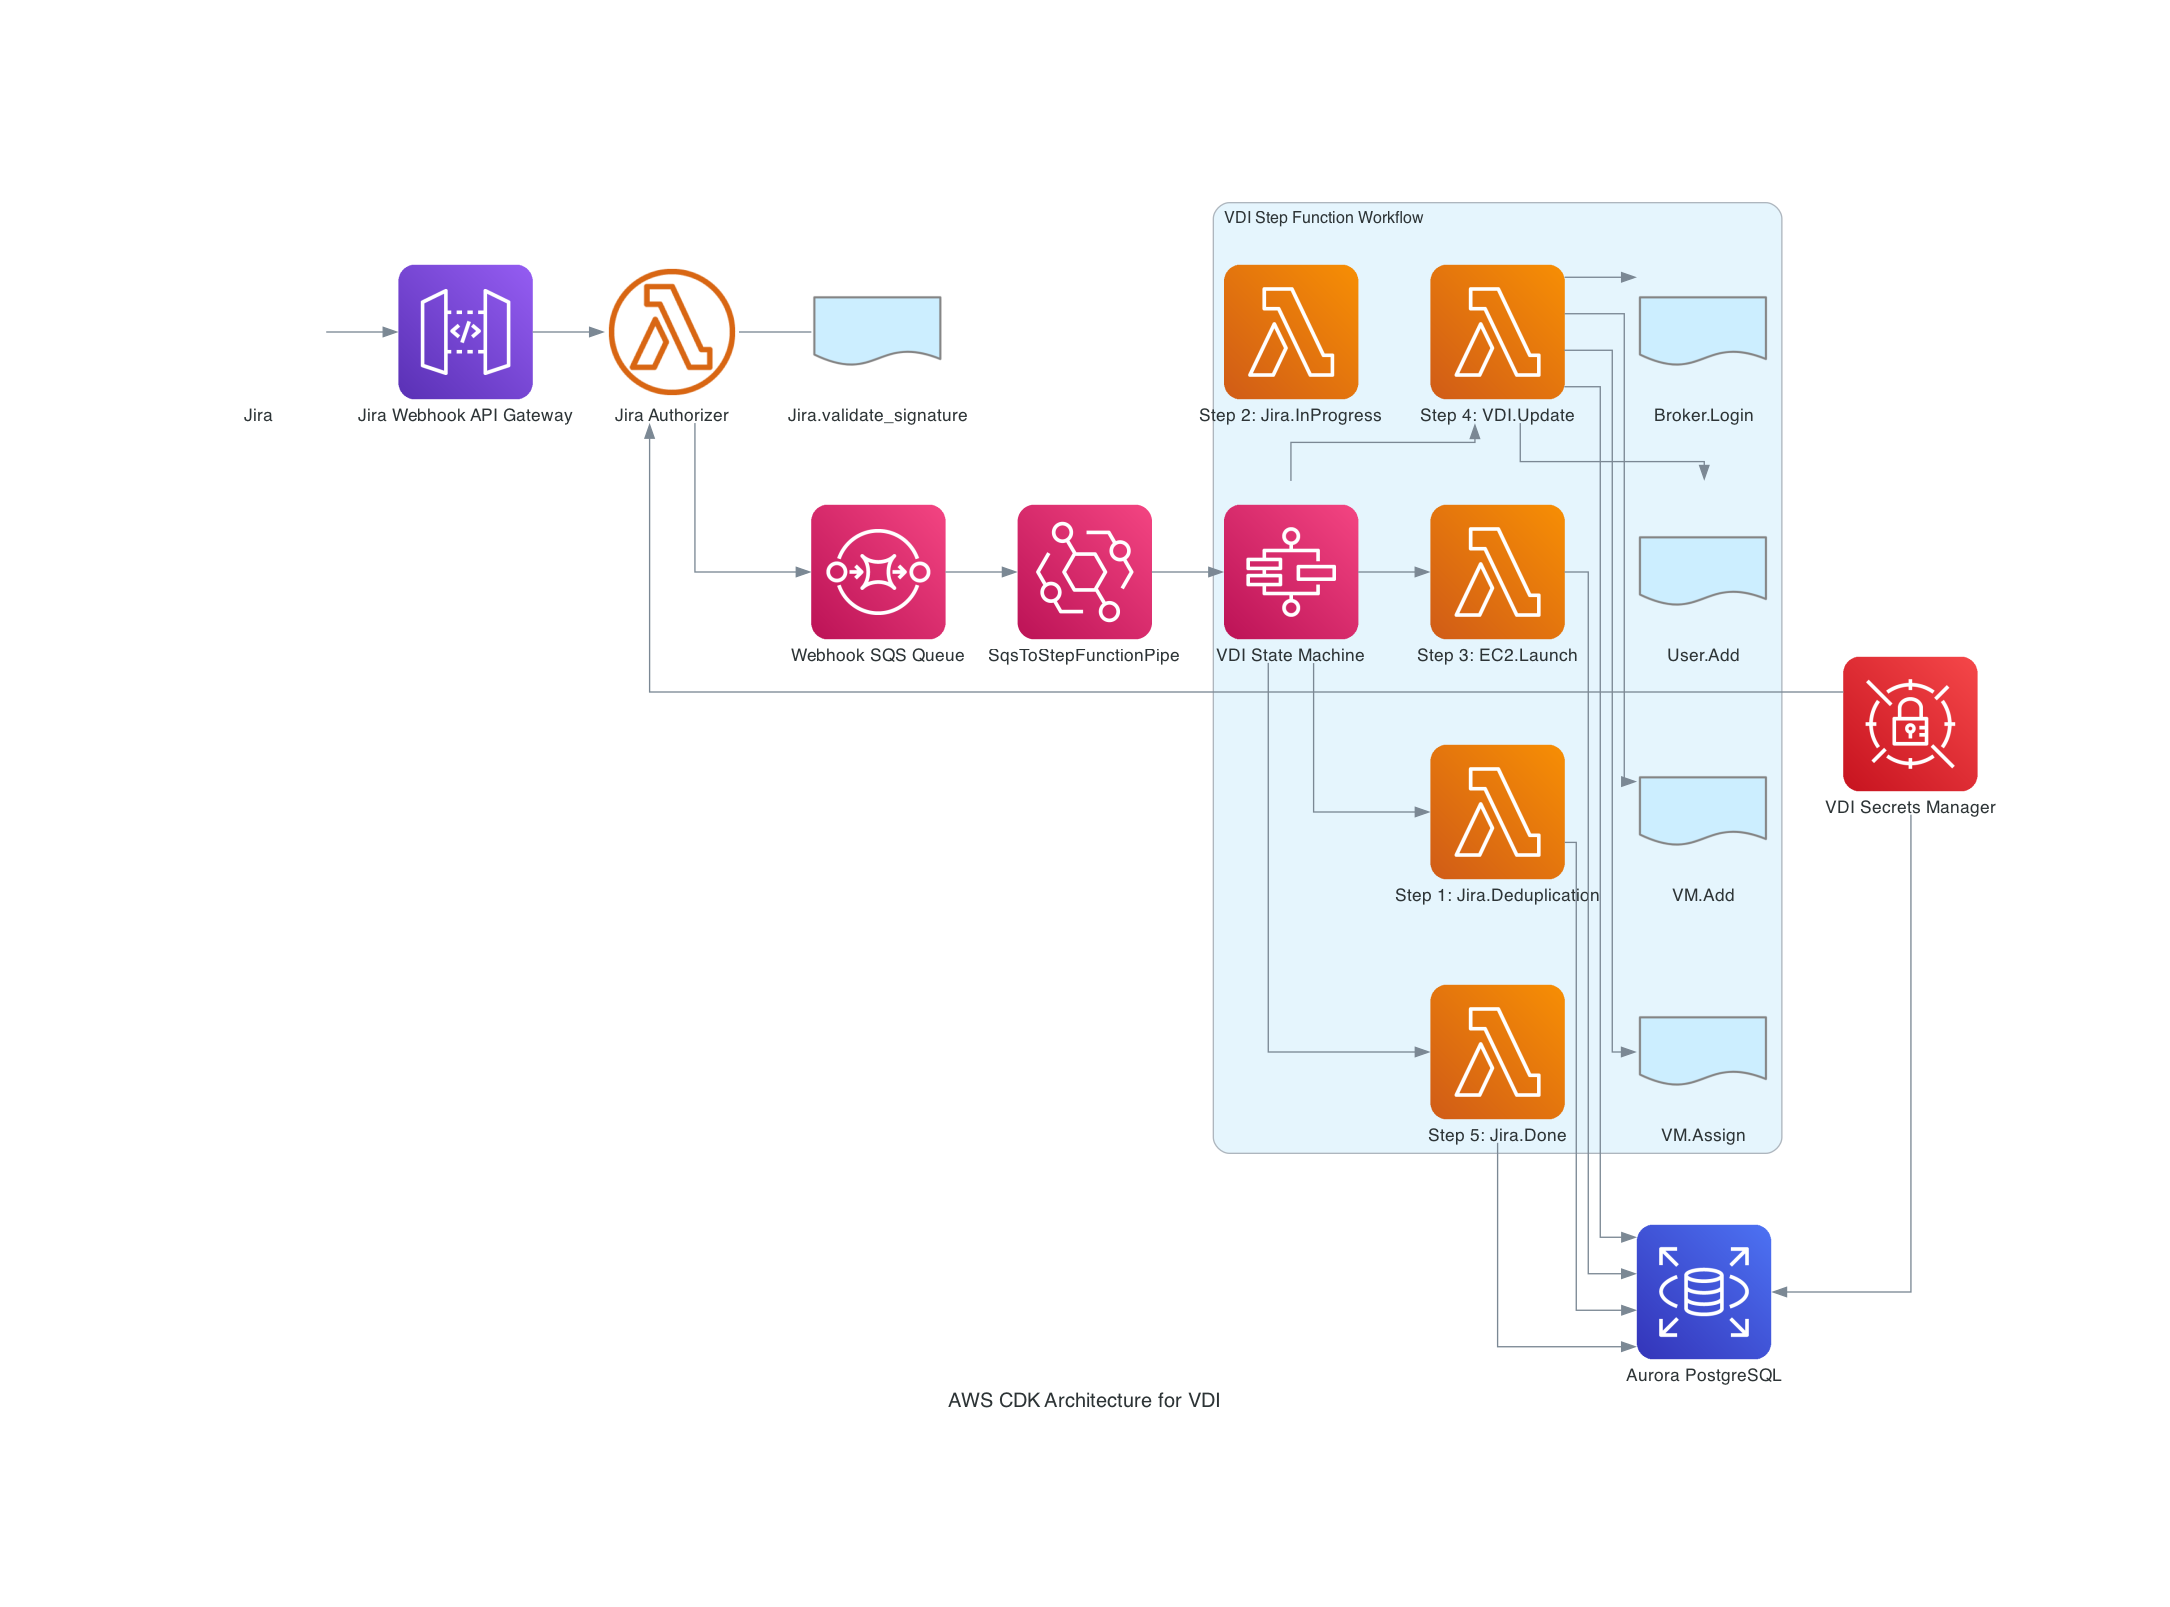
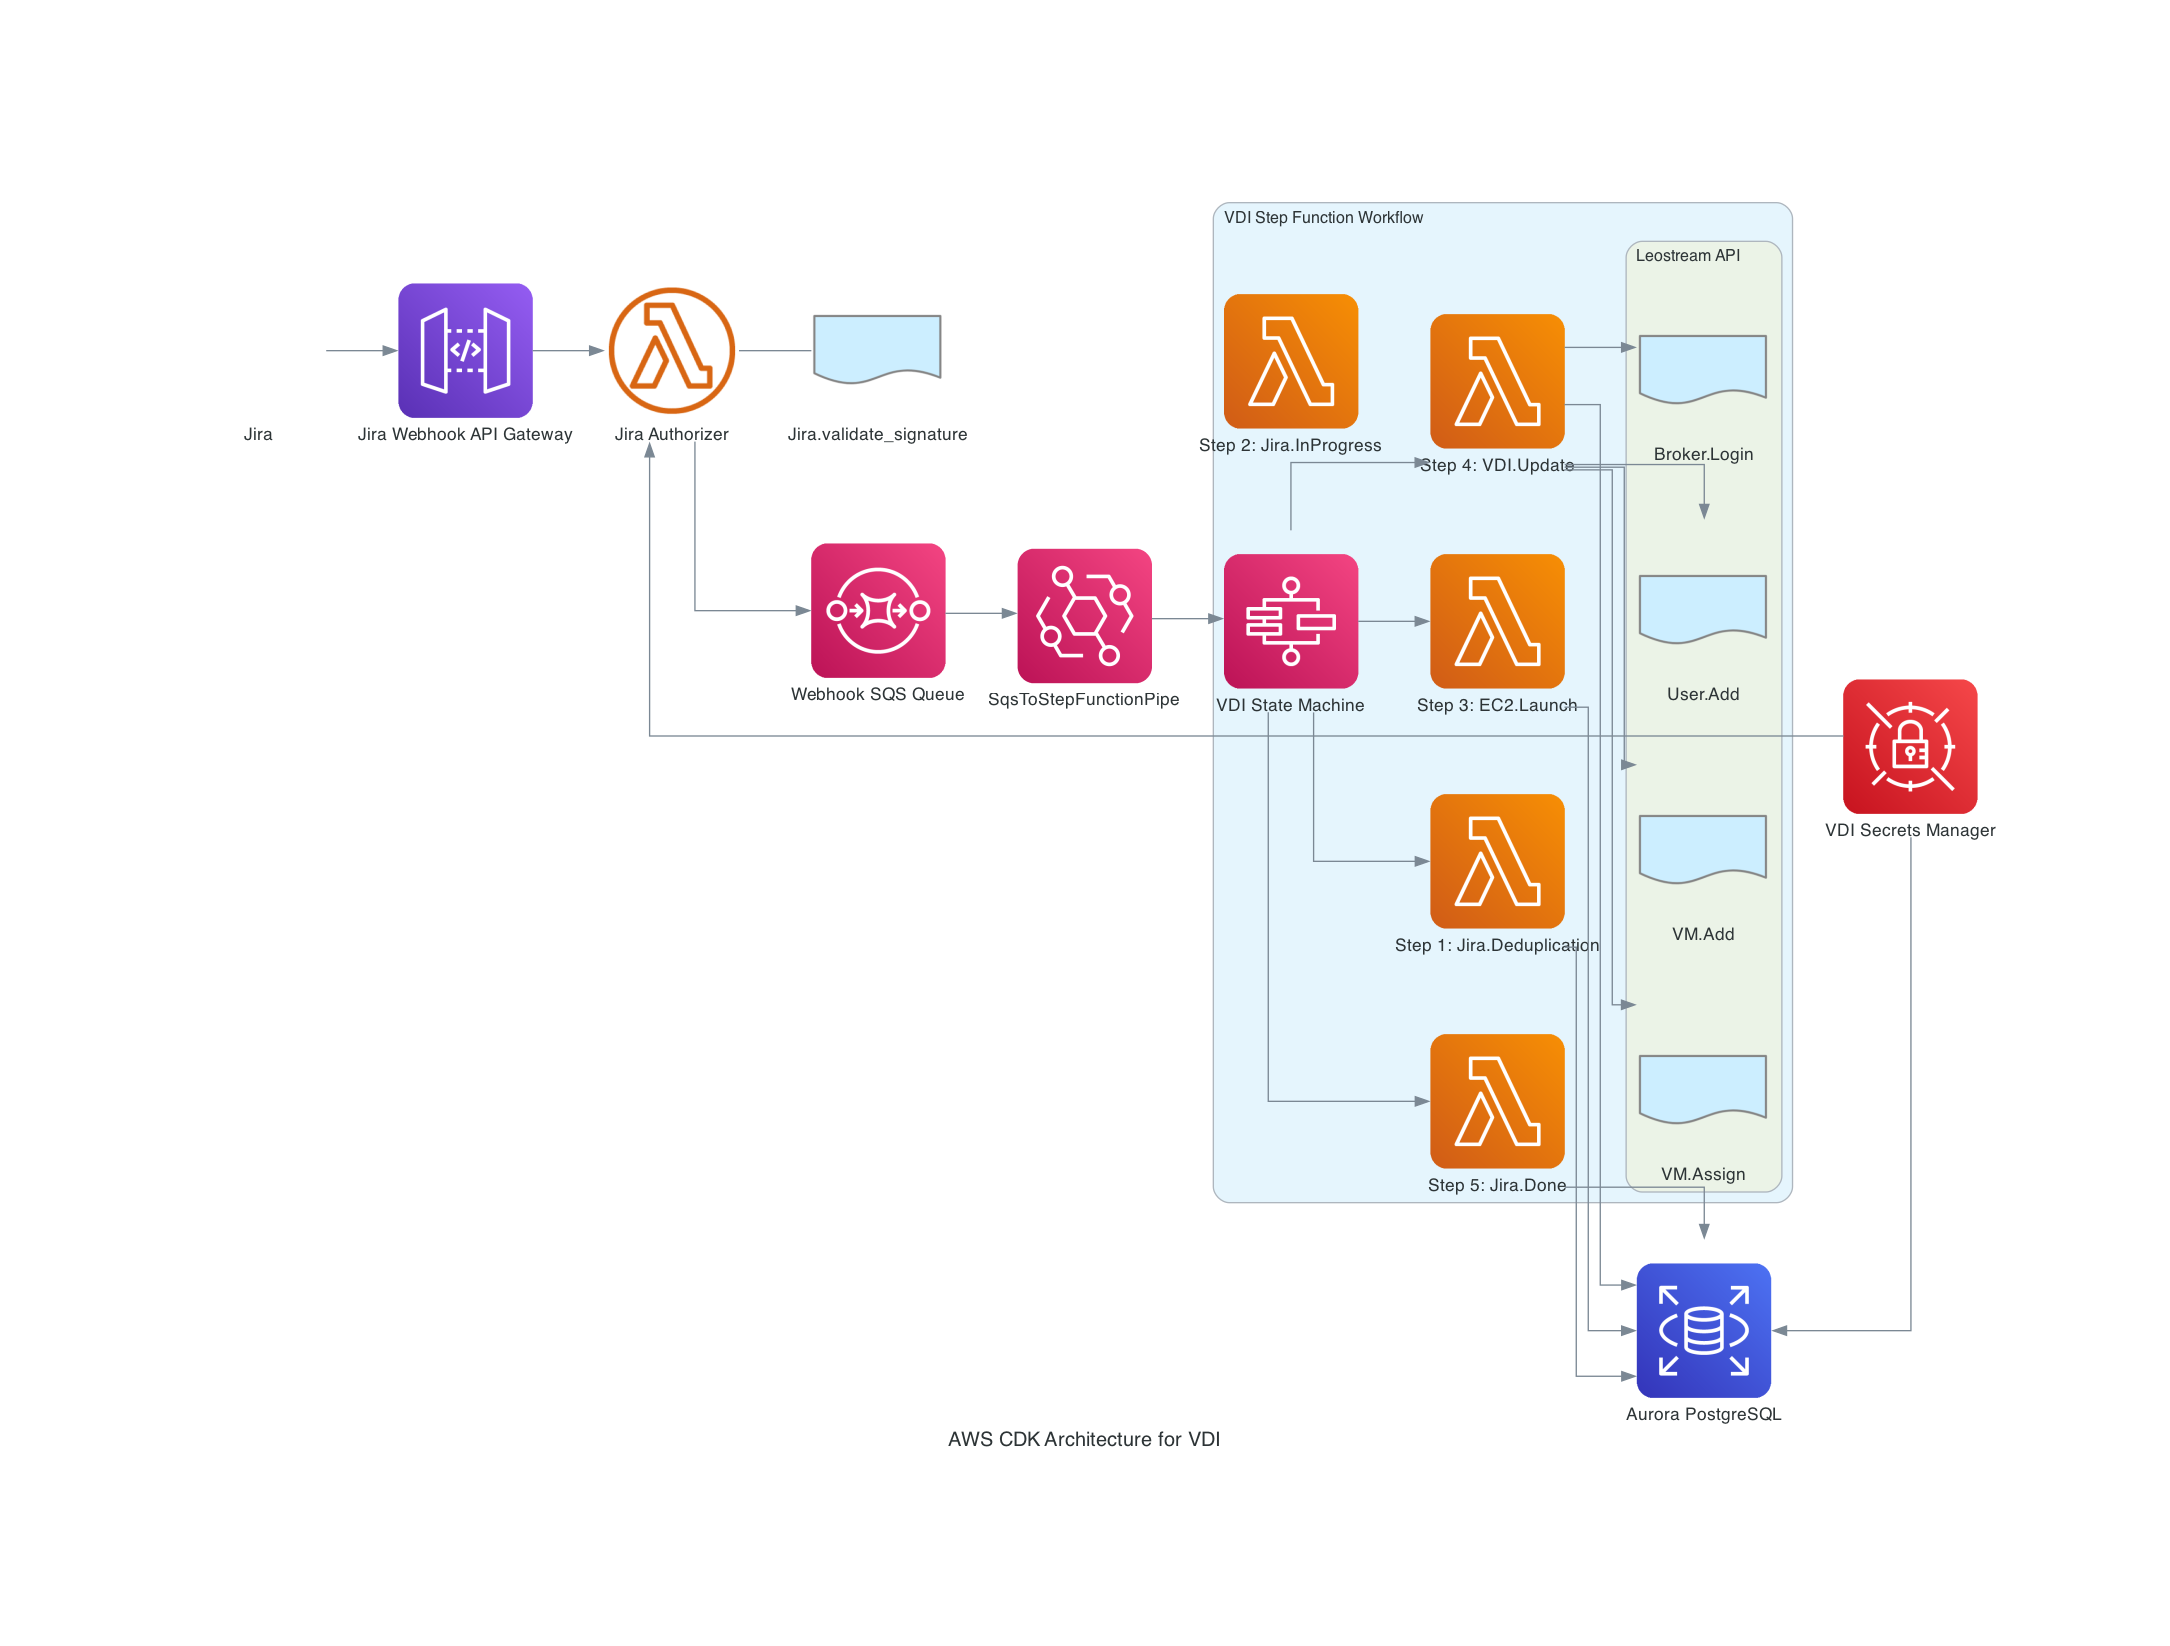
Update readme with HLD

diff --git a/architecture.py b/architecture.py
@@ -27,10 +27,14 @@ with (Diagram("AWS CDK Architecture for VDI", show=False, direction="LR")):
         jira_in_progress = Lambda("Step 2: Jira.InProgress")
         launch_ec2_lambda = Lambda("Step 3: EC2.Launch")
         vdi_lambda = Lambda("Step 4: VDI.Update")
-        broker_login = Document("Broker.Login")
-        user_add_api = Document("User.Add")
-        vm_add_api = Document("VM.Add")
-        vm_assign_api = Document("VM.Assign")
+
+        with Cluster("Leostream API"):
+
+            broker_login = Document("Broker.Login")
+            user_add_api = Document("User.Add")
+            vm_add_api = Document("VM.Add")
+            vm_assign_api = Document("VM.Assign")
+
         final_lambda = Lambda("Step 5: Jira.Done")
         step_function = StepFunctions("VDI State Machine")
 

diff --git a/README.md b/README.md
@@ -1,3 +1,90 @@
+# VDI Studios
+![VDI](/aws_cdk_architecture_for_vdi.png)
+
+## HLD
+The project uses AWS CDK and python to create the [Stack](cdk/disney_stack.py) for this workflow.
+1. API Gateway
+2. Lambda function to authorize the webhook (don't believe a Lambda Authorizer fits with how Jira webhook sends a signed signature).  This function will integrate with SQS
+3. AWS Step functions will work the SQS queue.  Rough POC
+   1. Prep the data from SQS 
+   2. Jira can retry requests using header field X-Atlassian-Webhook-Identifier
+   3. Store necessary data in Aurora RDS (Postgres)
+   4. Integrate with Jira to update status and comments
+   5. Integrate with Secrets Manager 
+   6. Integrate with Leostream specifics, may be good to expand the VDI.Update function into it's own state machine to orchestrate all the Leostream api calls
+   7. In Step 2, assuming that we need to run an ec2 instance to add Leostream.  As part of that the python script will send the run instance with a user data and the provide ansible scripts:
+[create ec2](lambda/step_function/create_ec2.py)
+![Step Function Main](/stepfunctions_graph.png)
+
+## Using the REST API: Registration
+
+Can register jira webhook either the jira admin or via jira rest api during cdk deploy
+
+POST /rest/api/3/webhook
+To register webhooks through the REST API, make a POST request to https://your-domain.atlassian.net/rest/api/2/webhook. The registered URL must use the same base URL as the app. An example request body is shown below:
+```markdown
+{
+  "name": "my first webhook via rest",
+  "description": "description of my first webhook",
+  "url": "https://www.example.com/webhooks",
+  "events": [
+    "jira:issue_created",
+    "jira:issue_updated"
+  ],
+  "filters": {
+    "issue-related-events-section": "Project = JRA AND resolution = Fixed"
+  },
+  "excludeBody" : false,
+  "secret" : "G8j4166a5OkXRD4WbqV3"
+}
+```
+
+Jira will use your secret token to create a HMAC signature and include it in a X-Hub-Signature header, formatted as method=signature, as defined by WebSub.
+See [jira_authorizer](lambda/auth/jira_authorizer.py)
+
+[Sample webhook payload](jira_webhook.txt)
+
+Basic url format
+   http://localhost:8080/rest/api/2/issue/QA-31
+
+With PAT (personal access token)
+```markdown
+curl -H "Authorization: Bearer <yourToken>" https://{baseUrlOfYourInstance}/rest/api/content
+
+```
+Update an issue
+```markdown
+{
+    "fields" : {
+        "summary": "Summary",
+        "description": "Description",
+        "customfield_10200" : "Test 1",
+        "customfield_10201" : "Value 1"
+    }
+}
+```
+
+
+```markdown
+Add comment with update format
+{
+   "update": {
+   "description": [
+         {
+            "set": "JIRA should also come with a free pony"
+         }
+      ],
+      "comment": [
+         {
+            "add": {
+               "body": "This request was originally written in French, which most of our developers can't read"
+            }
+         }
+      ]
+   }
+}
+```
+
 
 # Welcome to your CDK Python project!
 
